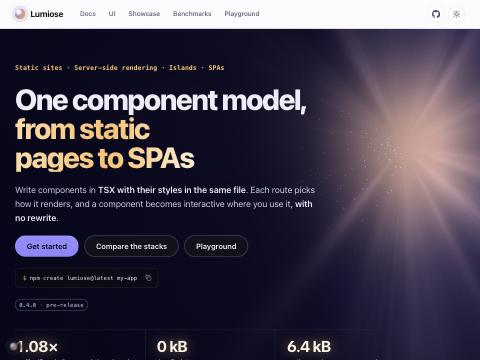
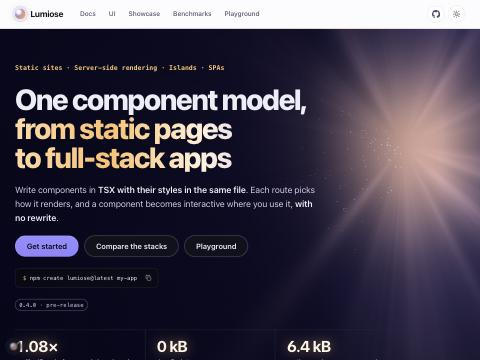
feat(web): hero reads 'from static pages to full-stack apps' (TASK-483)

Changed region(s): [[0.0312, 0.3361, 0.5, 0.4889]]

diff --git a/apps/web/e2e/web.e2e.ts b/apps/web/e2e/web.e2e.ts
@@ -30,7 +30,7 @@ test("the landing page presents Lumiose with benchmark evidence", async ({ page 
   await expect(page).toHaveTitle(/Lumiose/);
   await expect(page).toHaveTitle("Lumiose: Feels like React. Runs like vanilla JS.");
   await expect(page.getByRole("heading", { level: 1 })).toHaveText(
-    "One component model, from static pages to SPAs",
+    "One component model, from static pages to full-stack apps",
   );
   await expect(page.locator(".hero .eyebrow")).toHaveText(
     "Static sites · Server-side rendering · Islands · SPAs",

diff --git a/backlog/decisions/decision-74 - Honest-positioning-neither-a-pitch-nor-undersold.md b/backlog/decisions/decision-74 - Honest-positioning-neither-a-pitch-nor-undersold.md
@@ -16,7 +16,7 @@ The user approved the direction and the wording on 2026-10-20 (TASK-483).
 
 - **Tone.** Less marketing and more honest, without underselling. Lumiose's claims come from benchmarks and from ports of real projects.
 - **Landing hero.**
-  - The H1 "The best of every stack, in one framework" becomes "One component model, from static pages to SPAs".
+  - The H1 "The best of every stack, in one framework" becomes "One component model, from static pages to full-stack apps" (the user's wording; the draft said "to SPAs").
   - The lead: "Write components in TSX with their styles in the same file. Each route picks how it renders, and a component becomes interactive where you use it, with no rewrite."
   - The eyebrow, the tagline ("Feels like React. Runs like vanilla JS.", backed by the client benchmark), the descriptor, the meta description and the README stay as they are.
 - **No status line.** The user declined a "one developer with coding agents" line in the hero and the README. The pre-release badge, the Stability page and When not to use say it.
